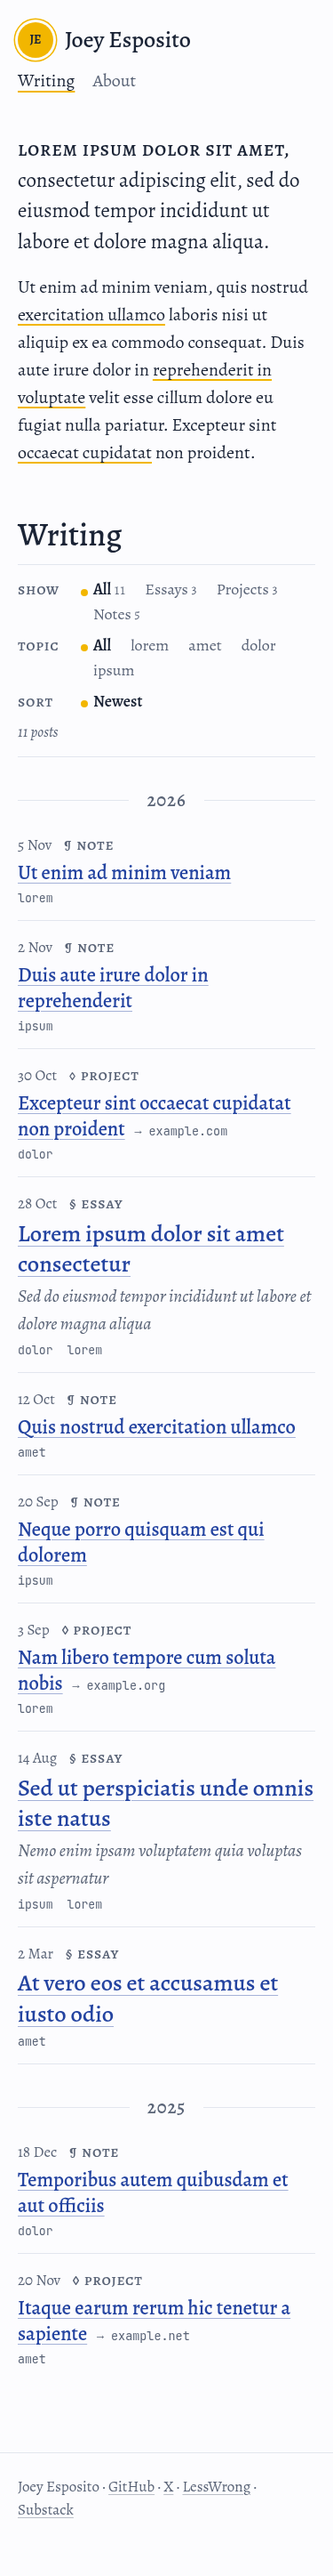
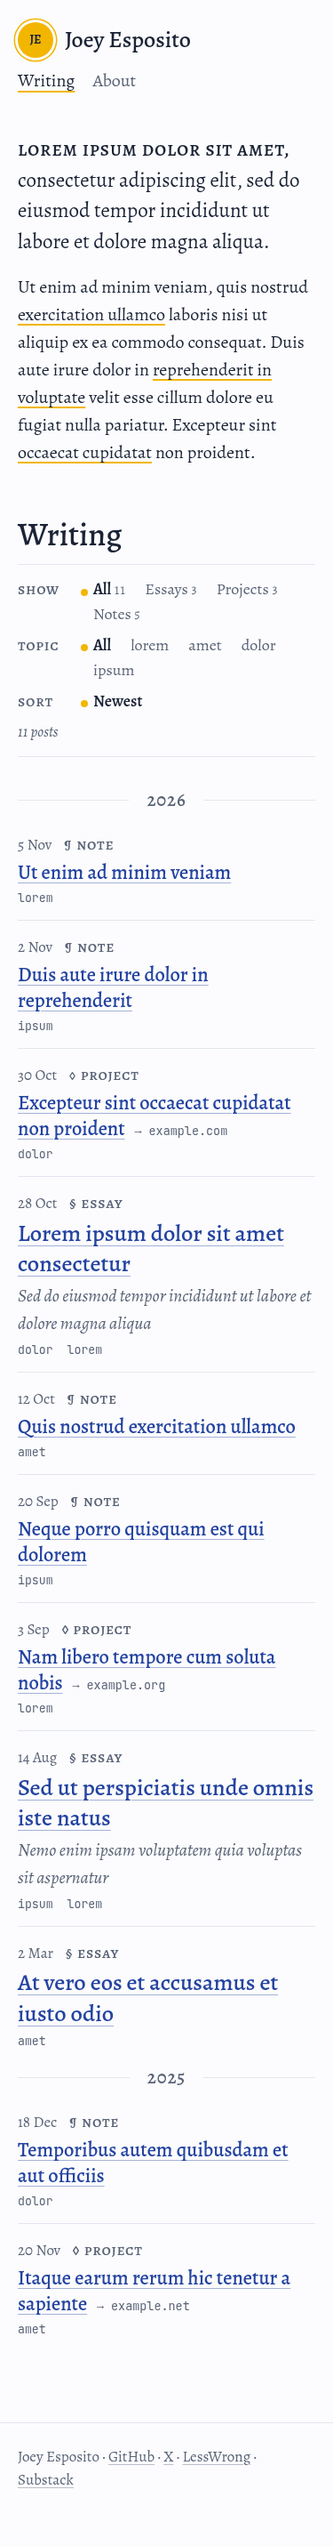
Let each year divider replace the rule above it, spaced like an entry
Also keep a project's arrow on the same line as its host.

diff --git a/src/styles/global.css b/src/styles/global.css
@@ -177,8 +177,11 @@ sup { line-height: 0; }
 }
 
 /* Years divide the list; an entry is a date column and a title column, ruled beneath. */
-.year { display: flex; align-items: center; gap: 1rem; margin: 1.6rem 0 0.2rem; font-size: 1.05rem; font-weight: 500; letter-spacing: 0.04em; color: var(--muted); }
+.year { display: flex; align-items: center; gap: 1rem; margin: 0 0 0.2rem; font-size: 1.05rem; font-weight: 500; letter-spacing: 0.04em; color: var(--muted); }
 .year::before, .year::after { content: ''; flex: 1; border-top: 1px solid var(--rule); }
+.post-list > .year:first-child { margin-top: 1.6rem; }
+/* A year's divider closes the year before it, so the entry above it needs no rule. */
+.entry:has(+ .year) { border-bottom: 0; }
 
 .entry { padding: 0.8rem 0; border-bottom: 1px solid var(--rule); }
 /* The footer's rule closes the list, so the last entry needs none of its own. */
@@ -187,7 +190,7 @@ sup { line-height: 0; }
 .entry .type { font-size: 0.9rem; }
 .entry h3 { font-size: 1.12rem; font-weight: 500; line-height: 1.3; margin: 0.1rem 0 0; }
 .entry.essay h3 { font-size: 1.32rem; }
-.entry .host { margin-left: 0.8em; font: 0.6em var(--font-mono); color: var(--muted); text-decoration: none; }
+.entry .host { margin-left: 0.8em; font: 0.6em var(--font-mono); color: var(--muted); text-decoration: none; white-space: nowrap; }
 .entry .host:hover { color: var(--fg); text-decoration: underline 0.12em var(--sun); }
 .entry .summary { margin: 0.15rem 0 0; font-style: italic; color: var(--muted); }
 .tags { display: flex; flex-wrap: wrap; gap: 0 0.8rem; margin: 0.3rem 0 0; padding: 0; list-style: none; font: 0.66rem var(--font-mono); }

diff --git a/DESIGN.md b/DESIGN.md
@@ -78,7 +78,7 @@ Meta 0.85–0.92rem. Inline code 0.8em; code blocks 0.72rem (14.4px).
 | Base layout | `src/layouts/Base.astro` | Head (title, description, canonical, Open Graph and Twitter card tags, feed discovery links, `rel="me"` profile links, a `head` slot), header, footer with profile links |
 | Intro | `src/components/Intro.astro` | Prose paragraph in Joey's voice. The first words are set in small capitals (`.lede strong`). Links are underlined in sunflower; topic links open the list pre-filtered (`/?tag=…#writing`). No drop cap. |
 | PostFilters | `src/components/PostFilters.astro` | Radio groups Show (All/Essays/Projects/Notes with counts), Topic (tags by frequency), Sort (Newest/Most popular), plus a live count. Hidden until its script runs. Counts follow the chosen topic; options with zero matches fade. State is mirrored in the query string, so filtered views are linkable. Sort always shows "Newest"; "Most popular" appears once `VIEWS_URL` is set, and fetches the view counts once, and if they fail to load the list falls back to newest and says so. |
-| PostList | `src/components/PostList.astro` | Year dividers (centred year between hairlines) and ruled entries: date column (date, type mark) and title column (title link, a project's "→ host" repo link in mono, essay subtitle in italic, topic links in mono). Sorted by views, the dividers disappear and each date shows its year. |
+| PostList | `src/components/PostList.astro` | Year dividers (centred year between hairlines) and ruled entries, spaced alike; a year's divider takes the place of the rule under the entry above it, and the footer's rule closes the list: date column (date, type mark) and title column (title link, a project's "→ host" repo link in mono, essay subtitle in italic, topic links in mono). Sorted by views, the dividers disappear and each date shows its year. |
 | Article | `src/components/Article.astro` | Post header (title, subtitle, meta line, epistemic status), contents, body, end mark, discussion links, citation, signup. |
 | Contents | `src/components/Contents.astro` | Essays with two or more headings. Box above the text on narrow screens; sticky right rail on wide ones. |
 | EndMark | `src/components/EndMark.astro` | Small sun between two short rules, closing an essay. |
